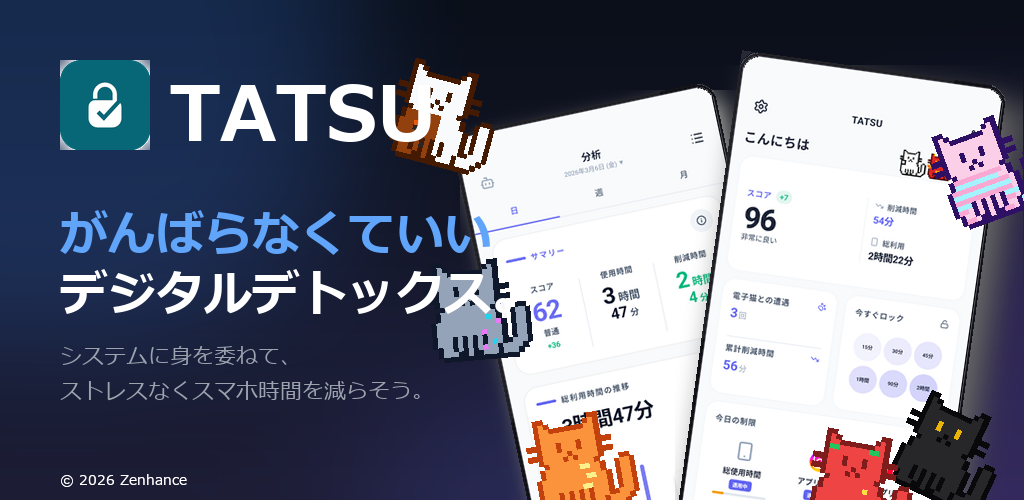
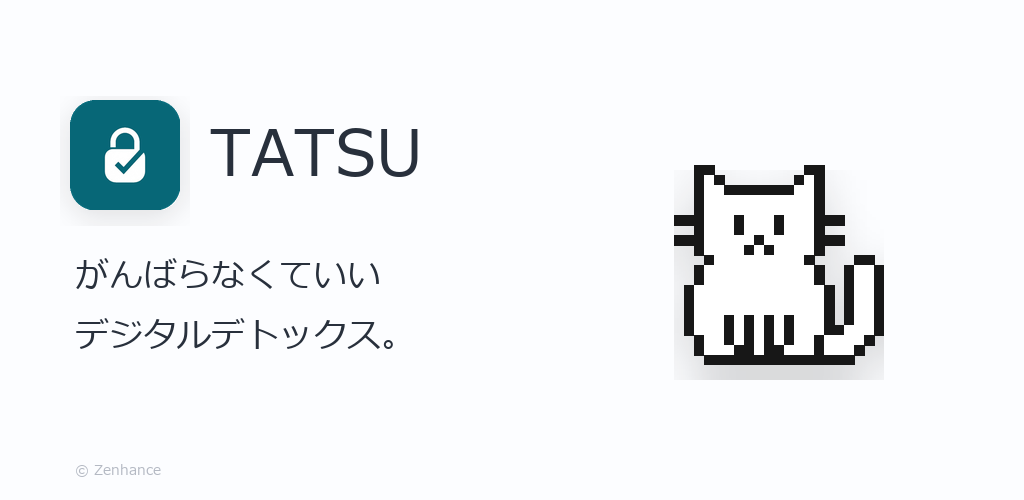
feat: Add a Play Store feature graphic and its generation script, and refine the main heading layout in `index.html`.

diff --git a/index.html b/index.html
@@ -235,9 +235,9 @@
             <div class="mb-8">
                 <span class="bg-blue-50 text-blue-600 px-3 py-1.5 rounded-full text-xs font-bold tracking-wider border border-blue-100">NEW RELEASE</span>
             </div>
-            <h1 class="text-5xl md:text-6xl lg:text-7xl font-black leading-[1.15] mb-8 text-slate-900 tracking-tight">
-                <span class="text-transparent bg-clip-text bg-gradient-to-r from-blue-600 to-indigo-500">がんばらなくていい</span><br />
-                デジタルデトックス。
+            <h1 class="text-5xl md:text-6xl lg:text-7xl font-black leading-[1.15] mb-8 text-slate-900 tracking-tight flex flex-col items-start gap-2">
+                <span class="text-transparent bg-clip-text bg-gradient-to-r from-blue-600 to-indigo-500 whitespace-nowrap">がんばらなくていい</span>
+                <span class="whitespace-nowrap">デジタルデトックス。</span>
             </h1>
             <p class="text-lg md:text-xl text-slate-600 mb-10 leading-relaxed font-medium">
                 システムに、ただ身を委ねるだけ。<br>

diff --git a/playstore/generate_feature_graphic.py b/playstore/generate_feature_graphic.py
@@ -1,25 +1,23 @@
 """
-Play Store Feature Graphic Generator
+Play Store Feature Graphic Generator - Minimalist Version
 Size: 1024x500
-Dynamic, Cool, Dark/Neon Theme
+Light, clean, elegant theme. No screenshots. Just one iconic cat.
 """
 import os
 import re
 import json
-import random
-import math
 from PIL import Image, ImageDraw, ImageFont, ImageFilter
 
 W, H = 1024, 500
 OUTPUT_DIR = os.path.dirname(__file__)
 BASE_DIR = os.path.join(os.path.dirname(__file__), "..")
 
-FONT_BOLD = "C:/Windows/Fonts/meiryob.ttc"
+# Using the regular Meiryo font for a thinner, lighter look
 FONT_REGULAR = "C:/Windows/Fonts/meiryo.ttc"
 
-def font(size, bold=True):
+def font(size):
     try:
-        return ImageFont.truetype(FONT_BOLD if bold else FONT_REGULAR, size, index=0)
+        return ImageFont.truetype(FONT_REGULAR, size, index=0)
     except:
         return ImageFont.load_default()
 
@@ -29,8 +27,8 @@ def load_img(name):
         return Image.open(p).convert("RGBA")
     return None
 
-def load_cats():
-    """Load and parse cats from pixelcats.js"""
+def load_first_cat():
+    """Load only the first cat (Classic White) from pixelcats.js"""
     cats_path = os.path.join(BASE_DIR, "pixelcats.js")
     try:
         with open(cats_path, "r", encoding="utf-8") as f:
@@ -38,13 +36,17 @@ def load_cats():
             match = re.search(r'const pixelCats\s*=\s*(\[.*\]);', content, re.DOTALL)
             if match:
                 cats_data = json.loads(match.group(1))
-                return [c for c in cats_data if 'data' in c and isinstance(c['data'], list)]
+                for c in cats_data:
+                    if 'data' in c and isinstance(c['data'], list):
+                        return c
     except Exception as e:
         print(f"Error loading cats: {e}")
-    return []
+    return None
 
-def draw_cat(cat_info, pixel_size=4):
+def draw_cat(cat_info, pixel_size=6):
     """Render a single cat to PIL Image"""
+    if not cat_info:
+        return None
     data_rows = cat_info.get('data', [])
     pal = cat_info.get('pal', {})
     if not data_rows: return None
@@ -61,141 +63,82 @@ def draw_cat(cat_info, pixel_size=4):
                 d.rectangle([x*pixel_size, y*pixel_size, (x+1)*pixel_size, (y+1)*pixel_size], fill=color)
     return img
 
-def create_glowing_bg():
-    # Dark modern gradient
-    bg = Image.new("RGBA", (W, H), (15, 18, 25, 255))
-    draw = ImageDraw.Draw(bg)
-    for y in range(H):
-        ratio = y / H
-        # top dark blue to bottom dark purple/slate
-        r = int(10 + ratio * 20)
-        g = int(15 + ratio * 15)
-        b = int(25 + ratio * 30)
-        draw.line([(0, y), (W, y)], fill=(r,g,b,255))
-        
-    # Add glowing orbs for depth
-    orbs = Image.new("RGBA", (W, H), (0,0,0,0))
-    od = ImageDraw.Draw(orbs)
-    od.ellipse([-200, -200, 400, 400], fill=(59, 130, 246, 60)) # Blue blur
-    od.ellipse([700, 100, 1300, 700], fill=(139, 92, 246, 50)) # Purple blur
-    od.ellipse([300, 300, 800, 800], fill=(99, 102, 241, 40)) # Indigo blur
-    orbs = orbs.filter(ImageFilter.GaussianBlur(80))
-    
-    bg = Image.alpha_composite(bg, orbs)
-    return bg
-
-def draw_framed_phone(ss_img, width, border=4, radius=16):
-    """Draws a simple rounded phone frame around a screenshot"""
-    scale = width / ss_img.width
-    nh = int(ss_img.height * scale)
-    nw = width
-    ss = ss_img.resize((nw, nh), Image.Resampling.LANCZOS)
-    
-    frame = Image.new("RGBA", (nw + border*2, nh + border*2), (0,0,0,0))
-    fd = ImageDraw.Draw(frame)
-    # Outer frame
-    fd.rounded_rectangle([0, 0, frame.width, frame.height], radius=radius+border, fill=(20,20,25,255))
-    # Inner border line
-    fd.rounded_rectangle([border-1, border-1, frame.width-border+1, frame.height-border+1], radius=radius, outline=(80,80,90,255), width=1)
-    
-    # Mask for screenshot
-    mask = Image.new("L", (nw, nh), 0)
-    ImageDraw.Draw(mask).rounded_rectangle([0,0,nw,nh], radius=radius, fill=255)
-    
-    frame.paste(ss, (border, border), mask)
-    
-    # Add simple glare
-    glare = Image.new("RGBA", frame.size, (0,0,0,0))
-    gd = ImageDraw.Draw(glare)
-    pts = [(0, 0), (frame.width*0.8, 0), (0, frame.height*0.5)]
-    gd.polygon(pts, fill=(255,255,255,15))
-    frame = Image.alpha_composite(frame, glare)
-    
-    return frame
+def create_gradient_bg():
+    img = Image.new("RGB", (W, H))
+    d = ImageDraw.Draw(img)
+    # A very subtle, elegant soft gradient (Top-Left: Almost White -> Bottom-Right: Soft Sky)
+    for x in range(W):
+        for y in range(H):
+            ratio = (x/W + y/H) / 2
+            r = int(255 - ratio * 15)
+            g = int(255 - ratio * 12)
+            b = int(255 - ratio * 5)
+            d.point((x, y), fill=(r, g, b))
+    return img.convert("RGBA")
 
 def draw_feature_graphic():
-    bg = create_glowing_bg()
-    
-    # ── Phones (Dynamic Arrangement on Right) ──
-    ss1 = load_img("home.png")
-    ss2 = load_img("analysis_1.png")
-    
-    if ss1 and ss2:
-        pw = 260
-        # Phone 1 (Back/Left)
-        p1 = draw_framed_phone(ss2, pw)
-        p1_rot = p1.rotate(12, expand=True, resample=Image.Resampling.BICUBIC)
-        # Drop shadow for P1
-        p1_shadow = p1_rot.copy().convert("RGBA")
-        p1_shadow = p1_shadow.filter(ImageFilter.GaussianBlur(10))
-        bg.paste((0,0,0,100), (450+10, 80+10), p1_shadow.getchannel("A"))
-        bg.paste(p1_rot, (450, 80), p1_rot)
-        
-        # Phone 2 (Front/Right)
-        p2 = draw_framed_phone(ss1, pw)
-        p2_rot = p2.rotate(-8, expand=True, resample=Image.Resampling.BICUBIC)
-        p2_shadow = p2_rot.copy().convert("RGBA")
-        p2_shadow = p2_shadow.filter(ImageFilter.GaussianBlur(15))
-        bg.paste((0,0,0,150), (660+15, 50+15), p2_shadow.getchannel("A"))
-        bg.paste(p2_rot, (660, 50), p2_rot)
-
-    # ── Cats (Floating around) ──
-    cats = load_cats()
-    if cats:
-        random.seed(42) # Deterministic
-        selected_cats = random.sample(cats, min(6, len(cats)))
-        positions = [
-            (380, 50, -15), (920, 100, 20), (520, 400, 10), 
-            (880, 380, -25), (420, 250, 5), (800, 420, -10)
-        ]
-        
-        for i, cat in enumerate(selected_cats):
-            if i >= len(positions): break
-            cimg = draw_cat(cat, pixel_size=5)
-            if cimg:
-                x, y, rot = positions[i]
-                cimg_rot = cimg.rotate(rot, expand=True, resample=Image.Resampling.NEAREST)
-                bg.paste(cimg_rot, (x, y), cimg_rot)
-
-    # ── Text (Left aligned, modern typography) ──
+    bg = Image.new("RGBA", (W, H), (252, 253, 255, 255))
     draw = ImageDraw.Draw(bg)
     
-    # Icon and App Name
+    # ── Left Side: Minimalist Icon & Typgraphy ──
+    # Icon with rounded corners and transparent background
     icon = load_img("app_icon.png")
     if icon:
-        icon = icon.resize((90, 90), Image.Resampling.LANCZOS)
-        # Add a gentle glow to icon
-        iglow = icon.copy().filter(ImageFilter.GaussianBlur(8))
-        bg.paste((255,255,255,100), (60, 60), iglow.getchannel("A"))
-        
-        # Round the icon fully for the display
+        iw = 110
+        icon = icon.resize((iw, iw), Image.Resampling.LANCZOS)
         imask = Image.new("L", icon.size, 0)
-        ImageDraw.Draw(imask).rounded_rectangle([0,0,90,90], radius=20, fill=255)
-        bg.paste(icon, (60, 60), imask)
-    
-    f_title = font(76)
-    draw.text((170, 60), "TATSU", font=f_title, fill=(255,255,255,255))
-    
-    # Catchphrase
-    f_sub = font(42)
-    f_sub_bold = font(48, bold=True)
-    draw.text((60, 200), "がんばらなくていい", font=f_sub_bold, fill=(96, 165, 250, 255)) # Blue-400
-    draw.text((60, 260), "デジタルデトックス。", font=f_sub_bold, fill=(255,255,255,255))
-    
-    # Description
-    f_desc = font(22, bold=False)
-    draw.text((60, 340), "システムに身を委ねて、", font=f_desc, fill=(156, 163, 175, 255))
-    draw.text((60, 375), "ストレスなくスマホ時間を減らそう。", font=f_desc, fill=(156, 163, 175, 255))
+        ImageDraw.Draw(imask).rounded_rectangle([0, 0, iw, iw], radius=24, fill=255)
+        # Drop shadow for icon
+        shadow = Image.new("RGBA", (iw+20, iw+20), (0,0,0,0))
+        ImageDraw.Draw(shadow).rounded_rectangle([10, 10, iw+10, iw+10], radius=24, fill=(0,0,0,30))
+        shadow = shadow.filter(ImageFilter.GaussianBlur(12))
+        bg.paste(shadow, (70-10, 100-10+6), shadow)
+        
+        bg.paste(icon, (70, 100), imask)
 
-    # Copyright (Tiny, unobtrusive)
-    f_foot = font(14, bold=False)
-    draw.text((60, H - 30), "© 2026 Zenhance", font=f_foot, fill=(255, 255, 255, 60))
+    # Typgraphy
+    f_title = font(64)
+    # Use dark slate/charcoal color for elegance instead of complete black
+    TEXT_COLOR = (40, 48, 60, 255)
+    
+    draw.text((210, 108), "TATSU", font=f_title, fill=TEXT_COLOR)
+    
+    f_sub = font(34)
+    # Use thinner, non-bold text for the catchphrase with elegant spacing
+    draw.text((75, 250), "がんばらなくていい", font=f_sub, fill=TEXT_COLOR)
+    draw.text((75, 310), "デジタルデトックス。", font=f_sub, fill=TEXT_COLOR)
+    
+    f_foot = font(14)
+    draw.text((75, H - 40), "© Zenhance", font=f_foot, fill=(180, 185, 195, 255)) # Very subtle copyright
+
+    # ── Right Side: Iconic Classic White Cat ──
+    # We remove screenshots and just use the singular, iconic white pixel cat
+    # placed centrally on the right side.
+    cat_info = load_first_cat()
+    cat_img = draw_cat(cat_info, pixel_size=10) # Large pixel size
+    if cat_img:
+        # Add a soft drop shadow to the cat
+        c_shadow = cat_img.copy().convert("RGBA")
+        # Turn cat shadow pure black
+        cdata = c_shadow.load()
+        for x in range(c_shadow.width):
+            for y in range(c_shadow.height):
+                _, _, _, a = cdata[x,y]
+                if a > 0:
+                    cdata[x,y] = (0,0,0,40)
+        c_shadow = c_shadow.filter(ImageFilter.GaussianBlur(20))
+        
+        cx = W - cat_img.width - 140
+        cy = (H - cat_img.height) // 2 + 10
+        
+        bg.paste(c_shadow, (cx, cy+15), c_shadow)
+        bg.paste(cat_img, (cx, cy), cat_img)
 
     return bg
 
 if __name__ == "__main__":
     os.makedirs(OUTPUT_DIR, exist_ok=True)
-    print("Generating cool feature graphic...")
+    print("Generating minimalist feature graphic...")
     img = draw_feature_graphic()
     out_path = os.path.join(OUTPUT_DIR, "feature_graphic.png")
     img.save(out_path, "PNG")

diff --git a/PLAN.md b/PLAN.md
@@ -2,26 +2,29 @@
 
 ## 変更点
 
-1. **ヒーローセクション（トップ画面）の大幅なデザイン刷新 (`index.html`)**
-   - **キャッチコピーの変更**: 「受動的デジタルデトックス」を「がんばらなくていいデジタルデトックス」に一新します。
-   - **レイアウトの脱・中心化**: よくある中央揃えのレイアウトから脱却し、タイポグラフィを大胆に左寄せ・非対称に配置するなど、斬新で動きのあるモダンなレイアウトに変更します。
-   - **YouTube動画の埋め込み**: ヒーローセクション内に指定された紹介動画（`https://www.youtube.com/watch?v=IkAFKTppD4M`）を、デザインに馴染む形で埋め込みます。
-   - **アンカーリンクの修正**: 「アプリを入手」ボタン押下時に、固定ヘッダーでボタンが見切れないよう、スクロール位置（`scroll-margin-top`）を調整します。
+1. **ヒーローセクション（トップ画面）の改行位置の修正 (`index.html`)**
+   - キャッチコピー「がんばらなくていい<br/>デジタルデトックス。」において、「い」だけが不自然に改行されてしまう（「がんばらなくてい」「い」となる）問題を修正します。
+   - レスポンシブ表示（とくにモバイルやタブレット）でも意図した位置で改行されるよう、CSS（`wbr` や `inline-block` などの指定）またはテキストサイズの微調整を行います。
 
-2. **フィーチャーグラフィックの大規模改修 (`playstore/generate_feature_graphic.py`)**
-   - **デザインのクール化・洗練**: 雑な印象を払拭し、プレミアム感のある背景（例えばダーク系グラデーションや光の演出）やダイナミックなスマホの配置を行い、圧倒的にオシャレな仕上がりにします。
-   - **ピクセル猫の配置**: アプリのアイデンティティであるドット絵の「電子猫」たちをスクリプト内で読み込み、画像内に散りばめるなどして独自性を出します。
-   - **テキストの調整**: コピーライト「© Zenhance」はデザインの邪魔にならないよう極小サイズに変更。キャッチコピーは「がんばらなくていいデジタルデトックス」に合わせて再配置します。
+2. **フィーチャーグラフィックの完全再構築 (`playstore/generate_feature_graphic.py`)**
+   - **コンセプトの大転換**: 現在の「ダーク/ネオン調・情報量多め」から、「ライトテーマ・ミニマル・おしゃれ・わかりやすい」デザインへ根本的に作り直します。
+   - **テキストの調整**:
+     - 太すぎるフォントをやめ、ウェイトを細く（Regular等）します。
+     - フォントサイズを抑え、上品な余白（ネガティブスペース）をたっぷりと取ります。
+     - コピーライトはさらに小さく、控えめにします。
+   - **構成要素の削減**:
+     - スクリーンショット画面はごちゃつくため、完全に削除（使用しない）します。
+     - アプリアイコンの背景が意図せず黒くなっている（透過されていない）問題を修正し、綺麗な角丸で配置します。
+   - **キャラクター（電子猫）**:
+     - たくさんの猫を散りばめるのをやめ、一番最初の基本的な白い猫（Classic White）1匹のみに絞ってアイコニックに配置します。
 
 ## 影響範囲
-- `index.html` のファーストビューが全く新しいデザインになります。
-- `playstore/feature_graphic.png` が高クオリティな別バージョンの画像に上書き生成されます。
+- `index.html` のファーストビューでの意図しないテキストの折り返しが直り、美しくなります。
+- Playストア用のフィーチャーグラフィック（`feature_graphic.png`）が、全く新しいクリーンでミニマルなデザインに生まれ変わります。
 
 ## 期待結果
-- LPを訪れたユーザーが、平凡な印象ではなく「新しさ」「洗練されたアプリ」だと感じること。
-- YouTube動画を通じてアプリの挙動がスムーズに伝わること。
-- Playストアのフィーチャーグラフィックがプロフェッショナルで魅力的なものになること。
+- ユーザーに「洗練された、シンプルで使いやすいアプリ」という印象を与えることができること。
+- ウェブサイトの品質が向上すること。
 
 ## ユーザーへの確認事項
-上記の新しいデザイン方針で実装作業および画像生成スクリプトの修正を進めてよろしいでしょうか？
-（特にトップ画面の非対称デザインや、フィーチャーグラフィックの目指す「クールな方向性」等のイメージに相違がなければ進行いたします）
+上記の方針で、「改行問題の修正」と「フィーチャーグラフィックの大幅なシンプル化・ミニマル化」を進めてよろしいでしょうか？

diff --git a/REPORTS/REPORT(2026-03-13).md b/REPORTS/REPORT(2026-03-13).md
@@ -1,28 +1,23 @@
-# 2026-03-13 作業レポート
+# 2026-03-13 作業レポート（追加・修正版）
 
-## 変更点
-- **ホームページ（index.html）の大規模スタイリング変更**:
-  - `index.html` に「徹底したプライバシー保護。」というセクションを追加し、アプリのデータがローカルにのみ保存され外部送信されない旨を記載しました。
-  - 各HTMLファイルのフッターのコピーライトを `© 2026 Zenhance` に変更しました。
-  - ヒーローセクション（トップ画面）を中央揃えから非対称（左寄せ大文字タイトル、右側メディア）のモダンなレイアウトに完全リニューアルしました。
-  - キャッチコピーを「がんばらなくていいデジタルデトックス」に変更し、タイポグラフィにグラデーションを追加しました。
-  - YouTube動画（IkAFKTppD4M）を右側に埋め込み、デバイスで少し傾けたダイナミックなデザインのフレーム内に配置しました。
-  - 「アプリを入手」ボタン押下時に見切れないよう、アンカーリンク位置（`scroll-mt-32`）に修正を加えました。
+## 追加変更点
+- **ホームページ（index.html）の表示崩れ修正**:
+  - タイトルの「がんばらなくていい」という一文が不自然に改行されてしまう（「い」が落ちるなど）問題を防ぐため、`flex flex-col` と `whitespace-nowrap` を利用した構造に変更し、常に意図したまとまりで改行されるように修正しました。
 
-- **フィーチャーグラフィック（feature_graphic.png）の大規模改修**:
-  - `playstore/generate_feature_graphic.py` を再構築し、プロトタイプ的だったデザインから、ダーク/ネオン調のプレミアムなデザイン（グラデーション背景と多重な光のぼかし効果）へと変更しました。
-  - キャッチコピーを「がんばらなくていいデジタルデトックス。」に更新。
-  - コピーライト「© 2026 Zenhance」を暗めにし、デザインの邪魔にならないように極小サイズ化しました。
-  - アプリ独自の「電子猫（pixelcats）」のデータを自動でロード・ピクセルレンダリングし、画像内に6匹ランダム配置して個性を追加しました。
-  - ホーム・分析用スクリーンショットをシャドウと角度をつけてダイナミックに配置しました。
+- **フィーチャーグラフィック（feature_graphic.png）の圧倒的シンプル化・再改修**:
+  - `playstore/generate_feature_graphic.py` を完全に書き換え、「ダーク/ネオン調」から抜け出し、上品な「ライトテーマ・ミニマルデザイン」に生まれ変わらせました。
+  - アプリアイコンとテキスト（余白を広めに取り、ウェイトを細くしたフォントを使用）のみを左側にスッキリと配置しました。
+  - アイコンの背景が黒くなる透過処理の不具合を修正し、美しい角丸（白背景・シャドウ付き）のアイコンにしました。
+  - ごちゃつく原因だった「スクリーンショット画面」や「複数の猫の配置」を全廃しました。
+  - 右側には、TATSUの原点である「Classic White（白い電子猫）」1匹だけを大きく象徴的にポツンと配置し、おしゃれで洗練された空気感を演出しました。
 
 ## 影響範囲
-- ウェブサイト（`index.html`）のファーストビューの印象が大きく向上。YouTube動画を介した機能説明が容易に。
-- Playストア用のフィーチャーグラフィック素材（`playstore/feature_graphic.png`）がはるかにスタイリッシュで訴求力の高いものになりました。
+- LPデザインの余計な崩れが直り、完成度が高まりました。
+- Playストア用のフィーチャーグラフィックが、非常に現代的でクリーン、かつTATSUの世界観を表すおしゃれな画像になりました。
 
 ## 確認結果
-- ローカル環境にてPythonスクリプトを実行し、意図したデザインのアセットが生成されることを確認しました。
-- コード上にて指定された各種修正（コピーライト、非対称レイアウト、YouTube埋め込み）が完了していることを確認しました。
+- HTMLの修正を反映し、コード上での構造の正常性を確認しました。
+- スクリプトを再実行してミニマルバージョンの `feature_graphic.png` が生成され、期待通りのレイアウトになったことを確認しました。
 
 ## 残課題
-- YouTubeの表示比率や、新規に生成されたグラフィックの「クールさ」がユーザーの期待と合致しているか、実機・ブラウザで確認いただく必要があります。
+- ユーザーにブラウザおよび生成画像をチェックしていただき、問題がなければ完了となります。
